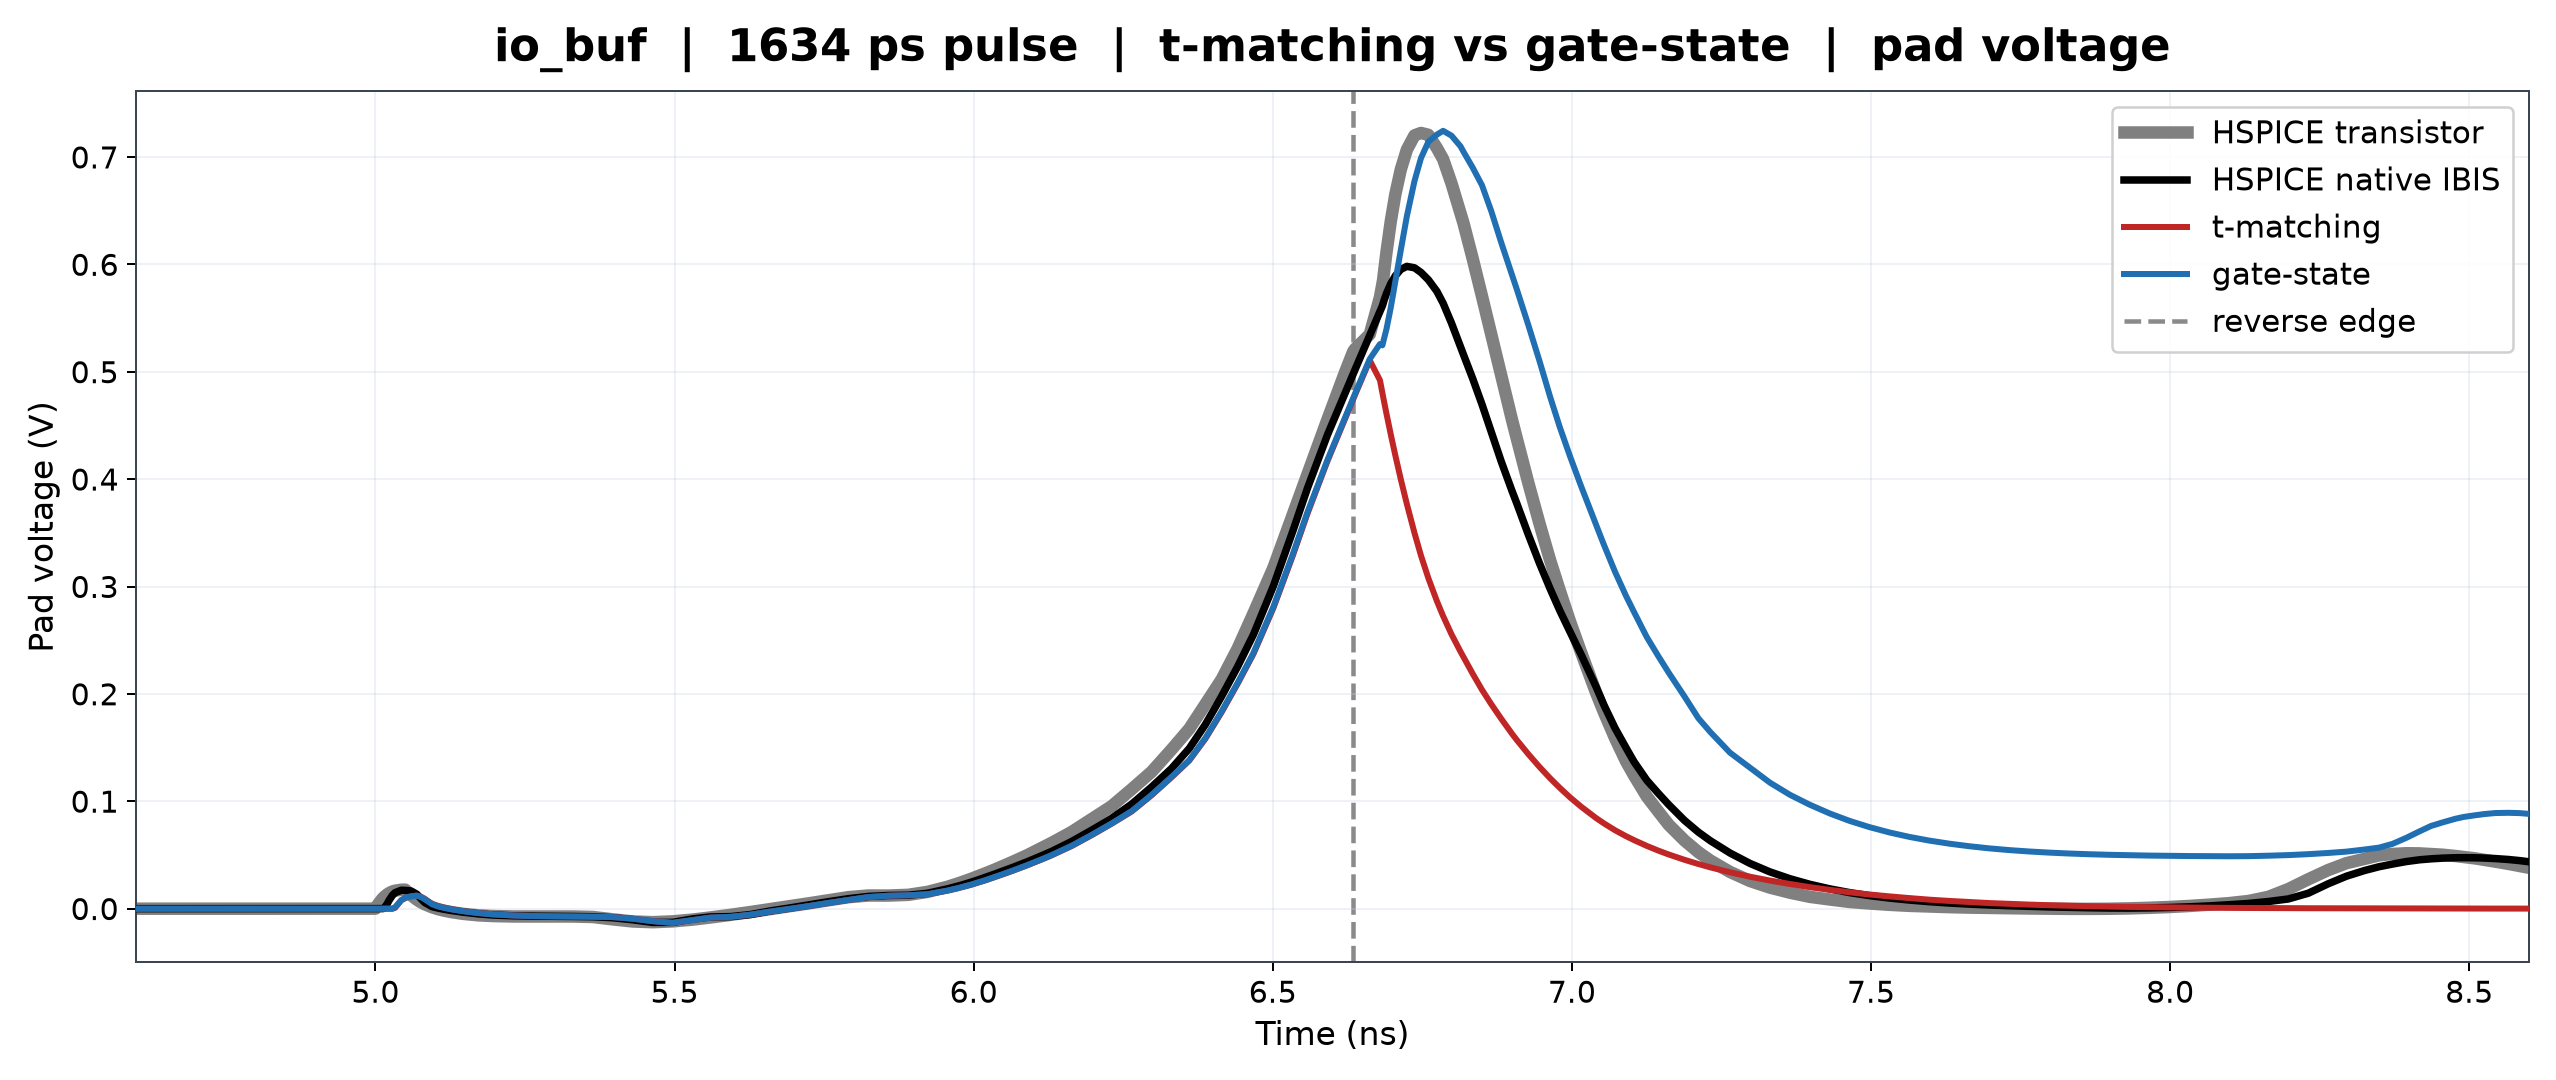
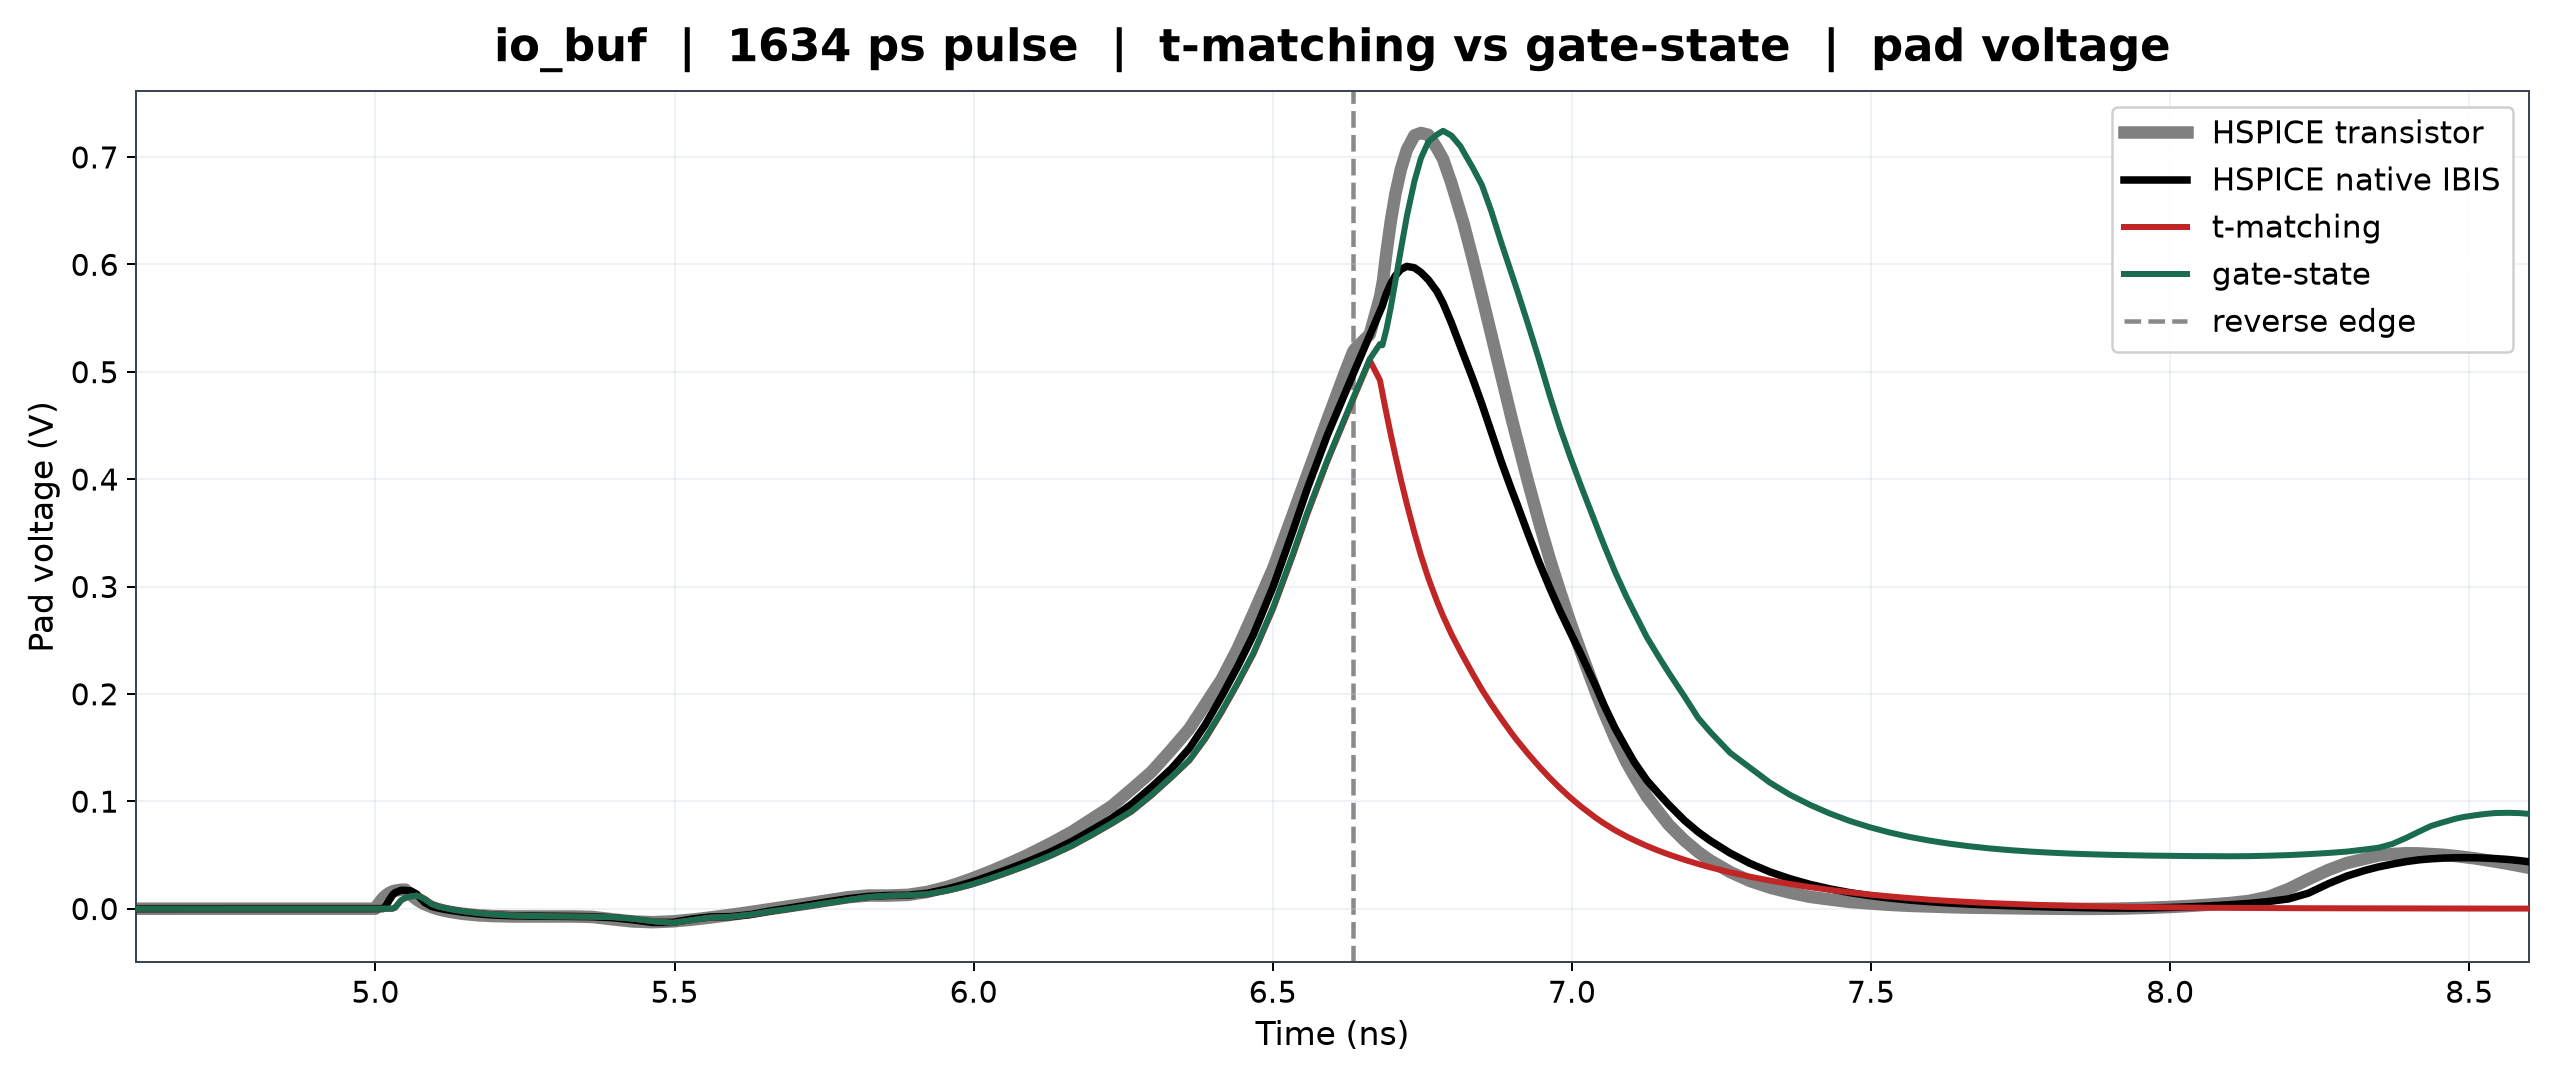
One figure with every method on it
Figure 14, pad and Ku/Kd, for both the best and worst short-high cases:
transistor, native IBIS, legacy, t-matching, value matching, gate-state.

Gate-state moves from blue to green. Blue already meant "legacy ngspice"
in intro figures 1-4, and the 12/13 pair had quietly reused it for
gate-state, so a viewer who learned the colour in the intro would have
read the summary wrong. Legacy keeps the intro blue.

io_buf 1634 ps peaks: transistor 0.722, gate-state 0.724, native IBIS
0.598, value matching 0.555, t-matching 0.511, legacy 1.163. The two
replay rules and legacy fail in opposite directions, which is only visible
with all of them on one axis.

The silicon Ku/Kd traces carry a large spike at the input edge and again
at the reversal. That is the known ill-conditioning of the two-fixture
solve when both devices are near their rails, not a model difference; it
is on the reference trace, not on any method.

diff --git a/scripts/build_reversal_method_figures.py b/scripts/build_reversal_method_figures.py
@@ -135,7 +135,11 @@ def kukd_figure(path, d, colour, label, title, t_rev, window):
     plt.close(fig)
 
 
-GATE = "#1F6FB2"
+# Gate-state is green, not blue: blue already means "legacy ngspice" in the
+# intro figures, and reusing it here would silently remap a colour the audience
+# has already learned. Legacy keeps the intro's blue in the summary figure.
+GATE = "#1B6B4F"
+LEGACY = "#1F6FB2"
 # The shipped gate-state build is the hybrid one -- gate-state everywhere, handing
 # off to matched replay in a window around the reversal. The deck has called it
 # gate-state throughout and these figures keep that name.
@@ -147,6 +151,73 @@ COMPARISONS = [
     ("12", "time_match_hybrid", "t_matching", "t-matching", "#C02626", ""),
     ("13", "coeff_match", "value_matching", "Ku/Kd value matching", "#7B2CBF", ""),
 ]
+
+
+# One figure with everything on it, in the order the deck introduces them.
+ALL_METHODS = [
+    ("legacy", "legacy (ngspice)", LEGACY),
+    ("time_match_hybrid", "t-matching", "#C02626"),
+    ("coeff_match", "Ku/Kd value matching", "#7B2CBF"),
+    (GATE_METHOD, "gate-state", GATE),
+]
+
+
+def summary_figures(out, stub, stem, title, t_rev, window):
+    """Every method on one pair of axes, against both references."""
+    available = [(k, lab, c) for k, lab, c in ALL_METHODS
+                 if (MATRIX / k / "waveforms" / stem).exists()]
+    if not available:
+        return {}
+    base = load(MATRIX / available[0][0] / "waveforms" / stem)
+    t = base["time_ns"]
+    w = (t >= window[0]) & (t <= window[1])
+    peaks = {"HSPICE transistor": float(base["silicon_pad"][w].max()),
+             "HSPICE native IBIS": float(base["hspice_pad"][w].max())}
+
+    fig, axis = plt.subplots(figsize=WIDE)
+    axis.plot(t, base["silicon_pad"], color=TRANSISTOR, lw=5.4,
+              label="HSPICE transistor", zorder=2)
+    axis.plot(t, base["hspice_pad"], color=NATIVE, lw=3.0,
+              label="HSPICE native IBIS", zorder=3)
+    for key, label, colour in available:
+        d = load(MATRIX / key / "waveforms" / stem)
+        axis.plot(d["time_ns"], d["pybis_pad"], color=colour, lw=2.2,
+                  label=label, zorder=4)
+        m = (d["time_ns"] >= window[0]) & (d["time_ns"] <= window[1])
+        peaks[label] = float(d["pybis_pad"][m].max())
+    axis.axvline(t_rev, color="#8A8A8A", ls="--", lw=1.8, zorder=1, label="reverse edge")
+    axis.set_xlim(*window)
+    axis.set_xlabel("Time (ns)", fontsize=13)
+    axis.set_ylabel("Pad voltage (V)", fontsize=13)
+    style(axis, f"{title}  |  pad voltage")
+    axis.legend(fontsize=12, loc="best", framealpha=0.92, ncol=2)
+    fig.tight_layout()
+    fig.savefig(out / f"{stub}_pad.png", dpi=DPI)
+    plt.close(fig)
+
+    fig, axes = plt.subplots(2, 1, figsize=STACK, sharex=True)
+    for axis, coeff in zip(axes, ("ku", "kd")):
+        axis.axhspan(0.0, 1.0, color="#EDF3FA", zorder=0)
+        axis.plot(t, base[f"silicon_{coeff}"], color=TRANSISTOR, lw=5.4,
+                  label="HSPICE transistor", zorder=2)
+        axis.plot(t, base[f"hspice_{coeff}"], color=NATIVE, lw=3.0,
+                  label="HSPICE native IBIS", zorder=3)
+        for key, label, colour in available:
+            d = load(MATRIX / key / "waveforms" / stem)
+            axis.plot(d["time_ns"], d[f"pybis_{coeff}"], color=colour, lw=2.2,
+                      label=label, zorder=4)
+        axis.axvline(t_rev, color="#8A8A8A", ls="--", lw=1.8, zorder=1)
+        axis.set_ylabel(coeff.replace("k", "K"), fontsize=15)
+        axis.set_ylim(-0.25, 1.3)
+        style(axis)
+    axes[0].set_title(f"{title}  |  Ku and Kd", fontsize=18, fontweight="bold", pad=12)
+    axes[0].legend(fontsize=12, loc="upper right", framealpha=0.94, ncol=2)
+    axes[1].set_xlabel("Time (ns)", fontsize=13)
+    axes[0].set_xlim(*window)
+    fig.tight_layout()
+    fig.savefig(out / f"{stub}_kukd.png", dpi=DPI)
+    plt.close(fig)
+    return peaks
 
 
 def overlay_figures(out, stub, stem, title, method, t_rev, window):
@@ -252,6 +323,16 @@ def main() -> int:
         if made:
             print(f"\n  {label} vs gate-state")
             for name, value in made.items():
+                print(f"     peak pad  {name:22s} {value:.3f} V")
+    for case_name, (device, direction, width_ps, window) in CASES.items():
+        t_rev = EDGE_NS[direction] + width_ps / 1000.0
+        stem = f"{device}_{direction}_w{int(round(width_ps))}ps.csv"
+        peaks = summary_figures(out, f"14_all_methods_{case_name}", stem,
+                                f"{device}  |  {width_ps:.0f} ps pulse  |  all methods",
+                                t_rev, window)
+        if peaks:
+            print(f"\n  all methods, {case_name} ({device} {width_ps:.0f} ps)")
+            for name, value in peaks.items():
                 print(f"     peak pad  {name:22s} {value:.3f} V")
     print(f"\nwrote to {out.relative_to(ROOT)}")
     return 0
